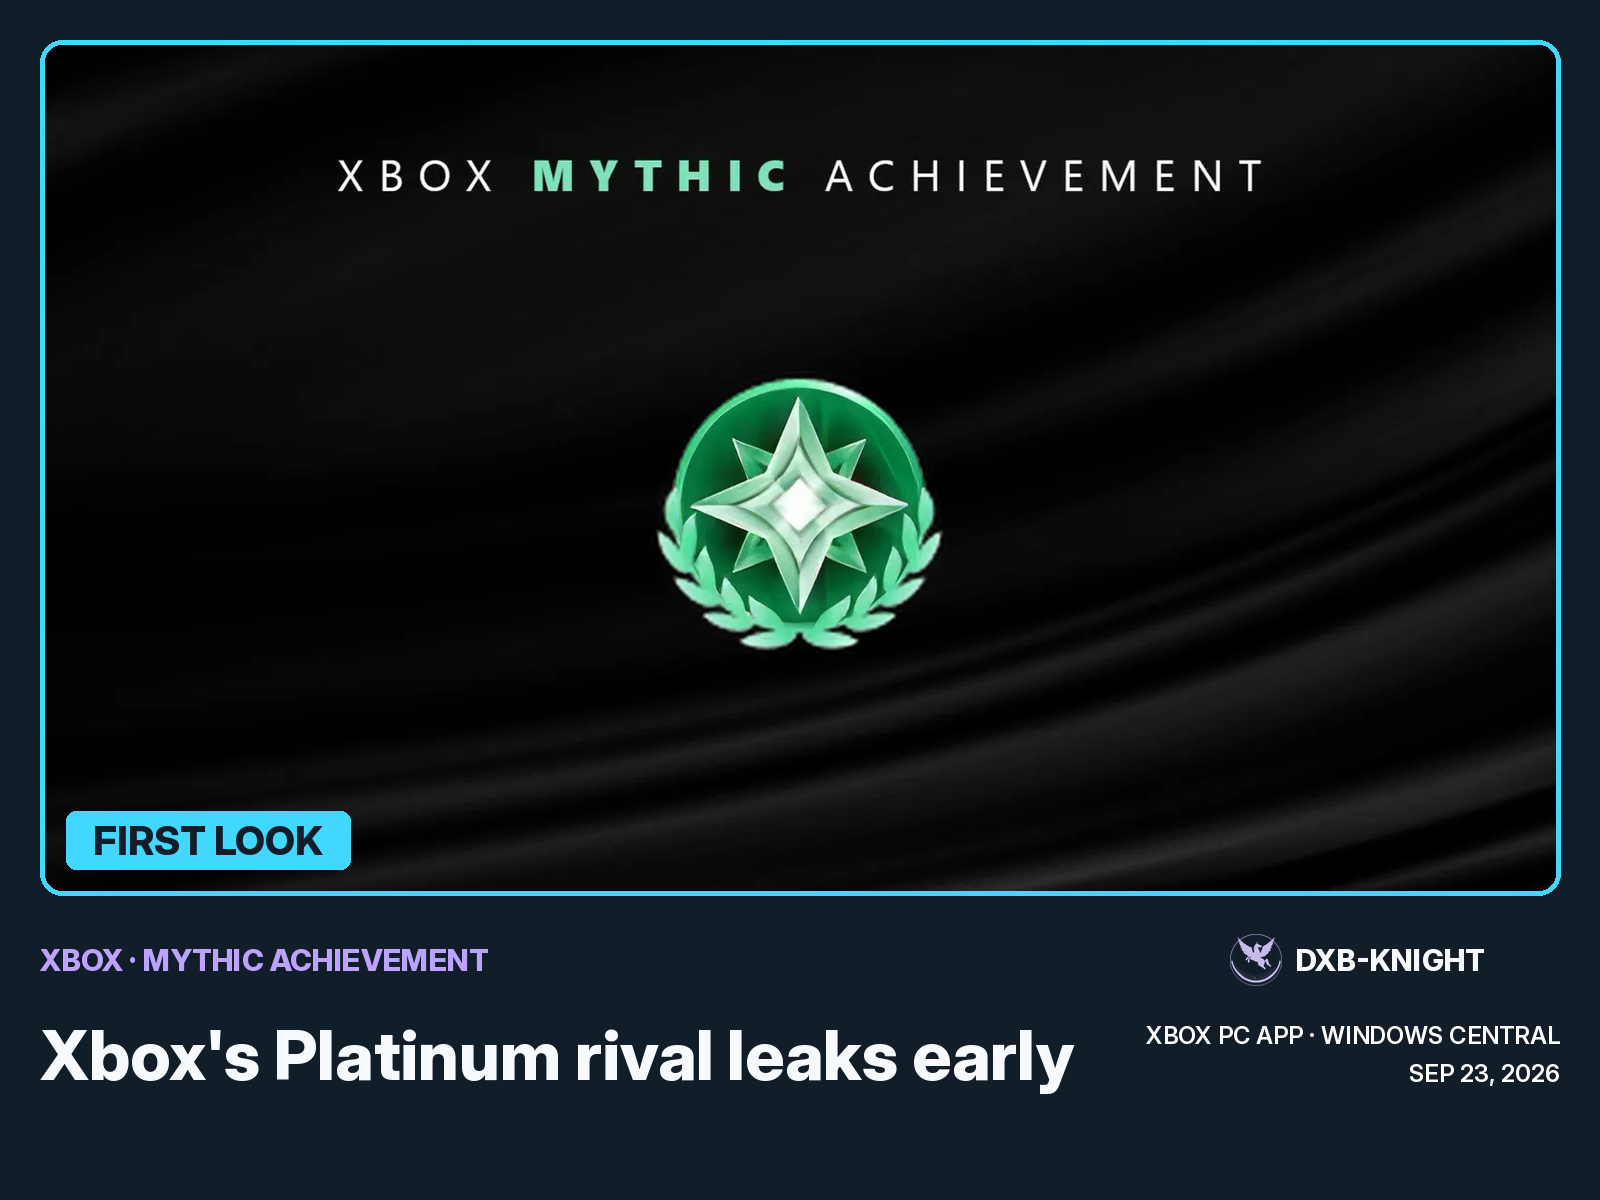
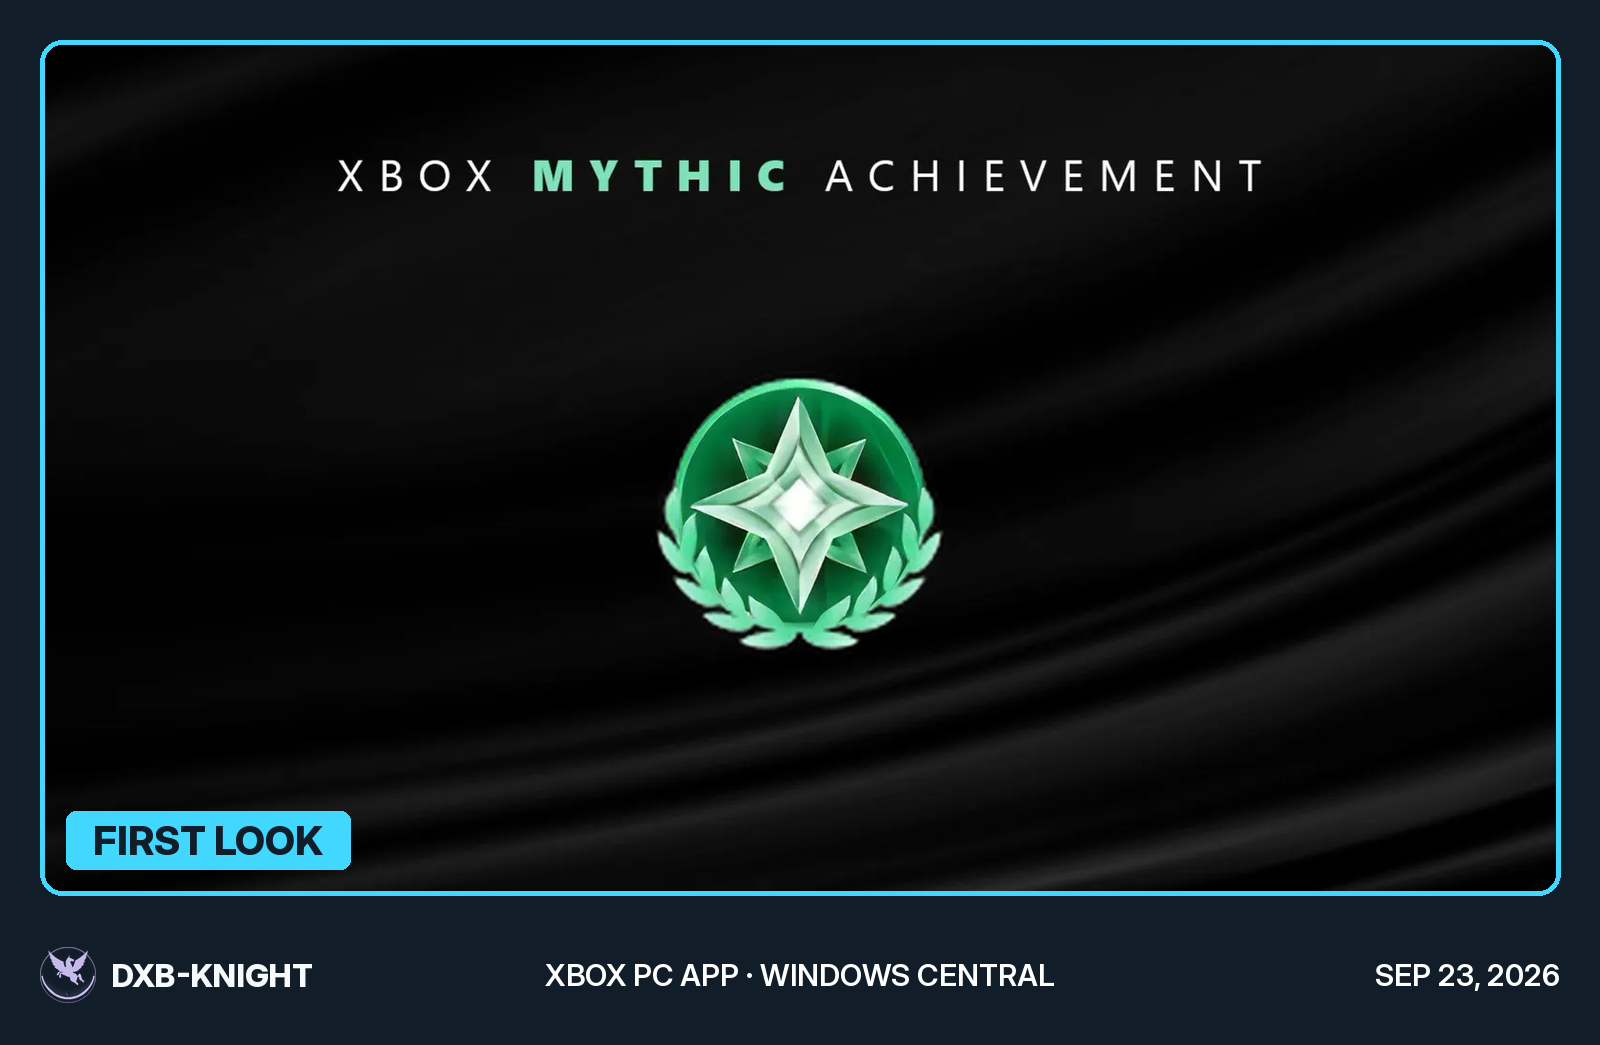
Fast-lane card: image and footer only, headline and kicker dropped
Claude-Session: https://claude.ai/code/session_015qYCrUw9vCB6HsZeWYmnB1

diff --git a/templates/fast.py b/templates/fast.py
@@ -1,21 +1,22 @@
 """DXB-KNIGHT fast-lane card.
 
 For news posted within minutes of breaking. The image is the story and the
-post text carries the facts, so the card holds only what makes it ours: the
-label, one headline line and the mark. 1600 x 1200 is 4:3, which X shows
-uncropped in the feed, and it leaves an exact 16:9 panel for the image.
+post text carries the facts, so the card is the image and the footer: the
+DXB-KNIGHT mark, the source and the date, in the same places as on every
+full card. No headline and no kicker.
 
-Same palette and argument names as flex.py. The full card (flex.single)
-remains the considered version, posted later as a reply to the fast post.
+The image panel is 1520 x 855, exactly 16:9, the shape of nearly every
+trailer frame and screenshot, so the usual source fills it with no bars.
+The full card (flex.single) remains the considered version, posted later as
+a reply to the fast post.
 """
 from PIL import Image, ImageDraw
 import cards as C
 import flex
 
-W, H, M = 1600, 1200, 40
-# 1520 x 855 is exactly 16:9, the shape of nearly every trailer frame and
-# screenshot, so the usual source fills the panel with no bars.
-PANEL = (M, M, W - M, M + 855)
+M = 40
+PANEL = (M, M, 1600 - M, M + 855)
+W, H = 1600, PANEL[3] + 150
 F = flex.F
 
 
@@ -37,13 +38,10 @@ def _media(path, box, backing, crop):
     return plate
 
 
-def fast(kicker, headline, label, media, date, source, out,
+def fast(media, date, source, out, label=None,
          background='reported', accent='cold', crop=False):
-    """One image, one line. Raises if the headline needs a second line:
-    a fast card that needs two lines of headline is a full card."""
     bg, panel, panel2, edge = flex.ground(background)
     acc = flex.resolve(accent)
-    sup = flex.resolve(flex.SUPPORT.get(flex.TERRITORY.get(accent, accent), accent))
 
     im = Image.new('RGB', (W, H), bg)
     plate = _media(media, PANEL, panel, crop)
@@ -52,28 +50,17 @@ def fast(kicker, headline, label, media, date, source, out,
     im.paste(plate, PANEL[:2], mask)
     d = ImageDraw.Draw(im)
     d.rounded_rectangle(list(PANEL), radius=22, outline=acc, width=5)
-    flex.filled_label(d, label, PANEL[0] + 26, PANEL[3] - 26, acc, bg, size=40, anchor='lb')
+    if label:
+        flex.filled_label(d, label, PANEL[0] + 26, PANEL[3] - 26, acc, bg, size=40, anchor='lb')
 
-    # Strip: kicker and headline left, mark and source right.
-    crest_w = 330
-    room = W - M * 2 - crest_w - 30
-    d.text((M, 960), kicker.upper(), font=F(30, 800), fill=sup, anchor='lm')
-    for size in (68, 62, 56):
-        hf = F(size, 800)
-        if d.textlength(headline, font=hf) <= room:
-            break
-    else:
-        raise ValueError(f'headline is {int(d.textlength(headline, font=hf) - room)}px '
-                         f'too long at 56pt: cut words, or build the full card')
-    d.text((M, 1055), headline, font=hf, fill=flex.INK, anchor='lm')
-
-    crest = Image.open(C.CREST).convert('RGBA').resize((52, 52), Image.LANCZOS)
-    cx = W - M - crest_w
-    im.paste(crest, (cx, 960 - 26), crest)
+    # Footer: the full card's footer, same order and weights.
+    base = PANEL[3] + 80
+    crest = Image.open(C.CREST).convert('RGBA').resize((56, 56), Image.LANCZOS)
+    im.paste(crest, (M, base - 28), crest)
     d = ImageDraw.Draw(im)
-    d.text((cx + 66, 960), 'DXB-KNIGHT', font=F(30, 800), fill=flex.INK, anchor='lm')
     muted = flex.lift(flex.BODY, -0.25, bg)
-    d.text((W - M, 1035), source.upper(), font=F(24, 600), fill=muted, anchor='rm')
-    d.text((W - M, 1073), date.upper(), font=F(24, 600), fill=muted, anchor='rm')
+    d.text((M + 72, base), 'DXB-KNIGHT', font=F(32, 800), fill=flex.INK, anchor='lm')
+    d.text((W / 2, base), source.upper(), font=F(30, 600), fill=muted, anchor='mm')
+    d.text((W - M, base), date.upper(), font=F(30, 600), fill=muted, anchor='rm')
     im.save(out)
     return out

diff --git a/CLAUDE.md b/CLAUDE.md
@@ -114,9 +114,10 @@ sit in either, it belongs in the card.
 ## Two lanes: fast and card
 
 The fast lane posts breaking news within minutes, on `templates/fast.py`:
-one image, a label, one headline line and the mark, on a 4:3 canvas with
-an exact 16:9 image panel. A headline that needs two lines means it is a
-full card, not a fast one. Here the post text carries the facts, attributed
+the image in an exact 16:9 panel taking most of the card, an optional
+label chip, and the same footer as every full card (crest and DXB-KNIGHT
+left, source centre, date right). No headline and no kicker on the card.
+Here the post text carries the facts, attributed
 ("Xbox says", "per Windows Central"), because the card deliberately does
 not. Speed never excuses an unverified claim: name the source in the text.
 
